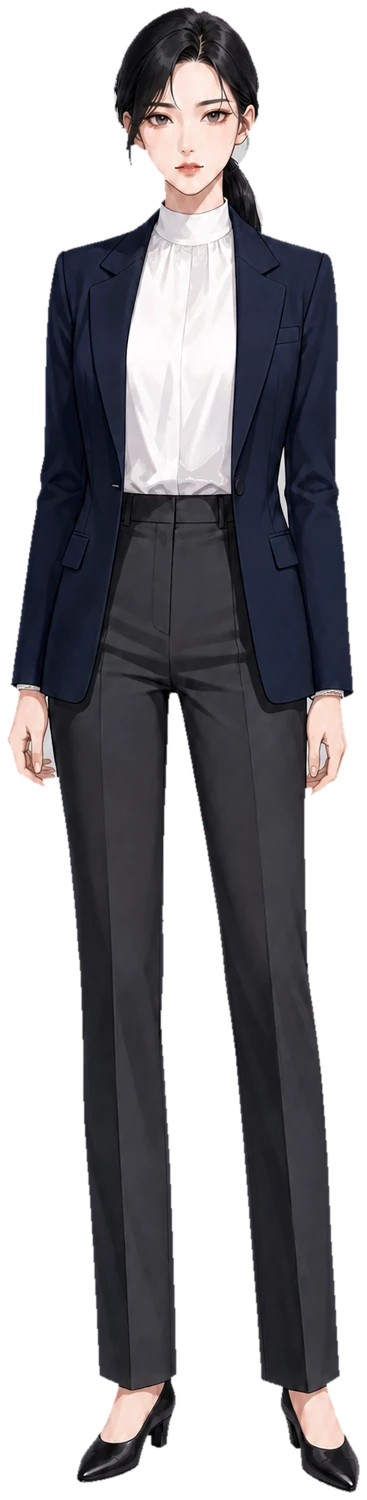
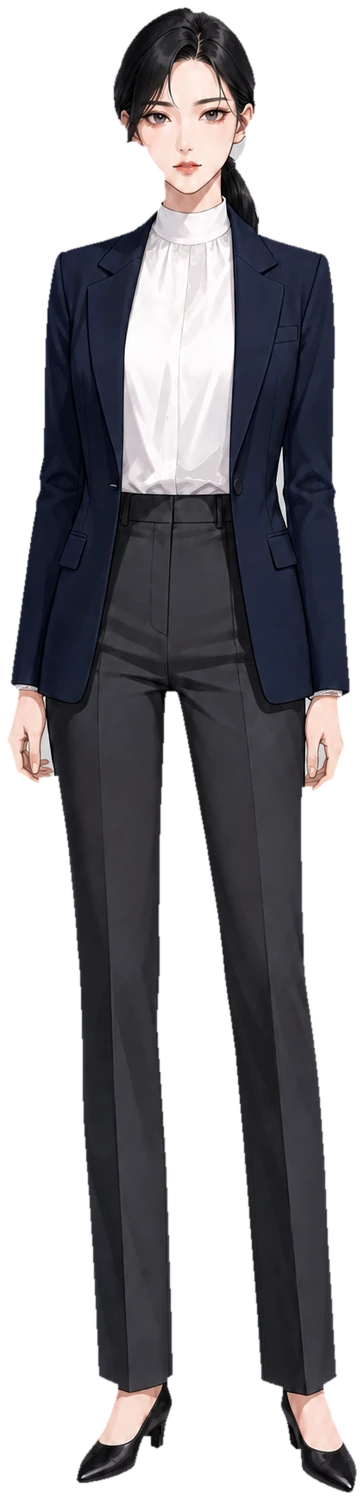
스탠딩 윤곽 정리, 엔딩 화면 가독성 보정

diff --git a/js/engine.js b/js/engine.js
@@ -14,23 +14,23 @@
 
   var ASSETS = {
     bg: {
-      office_day: 'assets/img/office_day.webp?v=2',
-      rooftop_sunset: 'assets/img/rooftop_sunset.webp?v=2',
-      office_night: 'assets/img/office_night.webp?v=2',
-      store_night: 'assets/img/store_night.webp?v=2'
+      office_day: 'assets/img/office_day.webp?v=3',
+      rooftop_sunset: 'assets/img/rooftop_sunset.webp?v=3',
+      office_night: 'assets/img/office_night.webp?v=3',
+      store_night: 'assets/img/store_night.webp?v=3'
     },
     char: {
       seoyun: {
-        base: 'assets/img/seoyun_base.webp?v=2',
-        blush: 'assets/img/seoyun_blush.webp?v=2',
-        surprised: 'assets/img/seoyun_surprised.webp?v=2',
-        serious: 'assets/img/seoyun_serious.webp?v=2'
+        base: 'assets/img/seoyun_base.webp?v=3',
+        blush: 'assets/img/seoyun_blush.webp?v=3',
+        surprised: 'assets/img/seoyun_surprised.webp?v=3',
+        serious: 'assets/img/seoyun_serious.webp?v=3'
       },
       haram: {
-        base: 'assets/img/haram_base.webp?v=2',
-        blush: 'assets/img/haram_blush.webp?v=2',
-        surprised: 'assets/img/haram_surprised.webp?v=2',
-        serious: 'assets/img/haram_serious.webp?v=2'
+        base: 'assets/img/haram_base.webp?v=3',
+        blush: 'assets/img/haram_blush.webp?v=3',
+        surprised: 'assets/img/haram_surprised.webp?v=3',
+        serious: 'assets/img/haram_serious.webp?v=3'
       }
     }
   };

diff --git a/css/style.css b/css/style.css
@@ -451,7 +451,7 @@ body:not(.is-title) #dialogue { opacity: 1; transform: none; }
 .title-bg {
   position: absolute;
   inset: 0;
-  background: url('../assets/img/rooftop_sunset.webp?v=2') center 42% / cover no-repeat;
+  background: url('../assets/img/rooftop_sunset.webp?v=3') center 42% / cover no-repeat;
   filter: blur(1.6px) saturate(0.92) brightness(0.86);
   transform: scale(1.06);
   animation: drift 26s ease-in-out infinite alternate;
@@ -585,7 +585,9 @@ body:not(.loading) .loader { opacity: 0; transition: opacity 0.6s; }
   visibility: hidden;
   transition: opacity 1s ease, visibility 1s;
   background:
-    radial-gradient(80% 70% at 50% 42%, rgba(20, 32, 48, 0.95), rgba(8, 12, 20, 0.99) 76%);
+    radial-gradient(85% 75% at 50% 42%, rgba(15, 26, 41, 0.985), rgba(6, 10, 17, 0.997) 74%);
+  backdrop-filter: blur(7px) saturate(0.9);
+  -webkit-backdrop-filter: blur(7px) saturate(0.9);
 }
 #ending-screen.on { opacity: 1; visibility: visible; }
 body.is-ending #dialogue,

diff --git a/index.html b/index.html
@@ -17,7 +17,7 @@
 <link rel="preconnect" href="https://fonts.googleapis.com">
 <link rel="preconnect" href="https://fonts.gstatic.com" crossorigin>
 <link rel="stylesheet" href="https://fonts.googleapis.com/css2?family=Gowun+Batang:wght@400;700&display=swap">
-<link rel="stylesheet" href="css/style.css?v=2">
+<link rel="stylesheet" href="css/style.css?v=3">
 </head>
 <body class="loading is-title">
 
@@ -114,7 +114,7 @@
   </div>
 </div>
 
-<script src="js/audio.js?v=2"></script>
-<script src="js/engine.js?v=2"></script>
+<script src="js/audio.js?v=3"></script>
+<script src="js/engine.js?v=3"></script>
 </body>
 </html>

diff --git a/tools/build_assets.py b/tools/build_assets.py
@@ -19,7 +19,7 @@ CHARS = {
 }
 BGS = ["bg_office_day", "bg_rooftop_sunset", "bg_office_night", "bg_store_night"]
 
-ERODE, BLUR = 5, 0.6
+ERODE, BLUR = 9, 0.6
 
 
 def alpha_of(path):
